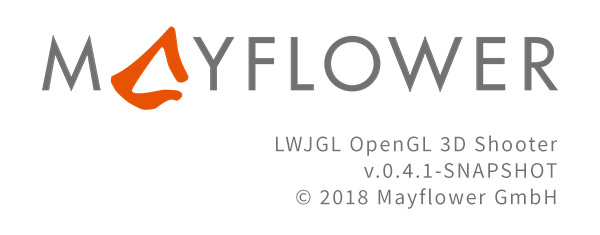
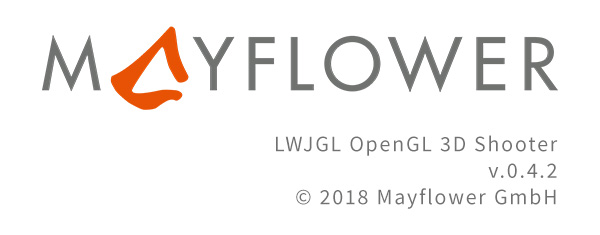
Moved FPS to class HUD. Completed version 0.4.2.

Changed region(s): [[0.6, 0.6851, 0.93, 0.7745]]

diff --git a/src/main/java/de/christopherstock/shooter/ShooterVersion.java b/src/main/java/de/christopherstock/shooter/ShooterVersion.java
@@ -6,27 +6,28 @@
     *******************************************************************************************************************/
     enum ShooterVersion
     {
-        V_0_4_1(    "0.4.1",    "31.03.2018 22:08:16 GMT+2" ),
-        V_0_4_0(    "0.4.0",    "31.03.2018 17:00:21 GMT+2" ),
-        V_0_3_12(   "0.3.12",   "23.03.2018 17:16:12 GMT+2" ),
-        V_0_3_11(   "0.3.11",   "29.03.2012 00:51:41 GMT+2" ),
-        V_0_3_10(   "0.3.10",   "12.03.2012 20:45:02 GMT+2" ),
-        V_0_3_9(    "0.3.9",    "03.03.2012 01:04:27 GMT+2" ),
-        V_0_3_8(    "0.3.8",    "19.02.2012 02:32:41 GMT+2" ),
-        V_0_3_7(    "0.3.7",    "30.01.2012 23:27:35 GMT+2" ),
-        V_0_3_6(    "0.3.6",    "11.11.2011 18:23:13 GMT+2" ),
-        V_0_3_5(    "0.3.5",    "28.05.2011 00:45:12 GMT+2" ),
-        V_0_3_4(    "0.3.4",    "04.05.2011 23:35:54 GMT+2" ),
-        V_0_3_3(    "0.3.3",    "22.04.2011 23:40:17 GMT+2" ),
-        V_0_3_2(    "0.3.2",    "13.04.2011 16:40:14 GMT+2" ),
-        V_0_3_1(    "0.3.1",    "17.03.2011 22:42:08 GMT+2" ),
-        V_0_3(      "0.3",      "11.02.2011 20:41:02 GMT+2" ),
-        V_0_2_3(    "0.2.3",    "25.01.2011 18:06:33 GMT+2" ),
-        V_0_2_2(    "0.2.2",    "09.11.2010 19:48:12 GMT+2" ),
-        V_0_2_1(    "0.2.1",    "07.11.2010 17:13:32 GMT+2" ),
-        V_0_2(      "0.2",      "17.10.2010 00:02:52 GMT+2" ),
-        V_0_1_1(    "0.1.1",    "27.06.2010 00:30:06 GMT+2" ),
-        V_0_1(      "0.1",      "27.06.2010 23:44:21 GMT+2" ),
+        V_0_4_2(    "0.4.2",    "09.04.2018 09:30:21 GMT+2" ),
+        V_0_4_1(    "0.4.1",    "31.03.2018 22:08:16 GMT+1" ),
+        V_0_4_0(    "0.4.0",    "31.03.2018 17:00:21 GMT+1" ),
+        V_0_3_12(   "0.3.12",   "23.03.2018 17:16:12 GMT+1" ),
+        V_0_3_11(   "0.3.11",   "29.03.2012 00:51:41 GMT+1" ),
+        V_0_3_10(   "0.3.10",   "12.03.2012 20:45:02 GMT+1" ),
+        V_0_3_9(    "0.3.9",    "03.03.2012 01:04:27 GMT+1" ),
+        V_0_3_8(    "0.3.8",    "19.02.2012 02:32:41 GMT+1" ),
+        V_0_3_7(    "0.3.7",    "30.01.2012 23:27:35 GMT+1" ),
+        V_0_3_6(    "0.3.6",    "11.11.2011 18:23:13 GMT+1" ),
+        V_0_3_5(    "0.3.5",    "28.05.2011 00:45:12 GMT+1" ),
+        V_0_3_4(    "0.3.4",    "04.05.2011 23:35:54 GMT+1" ),
+        V_0_3_3(    "0.3.3",    "22.04.2011 23:40:17 GMT+1" ),
+        V_0_3_2(    "0.3.2",    "13.04.2011 16:40:14 GMT+1" ),
+        V_0_3_1(    "0.3.1",    "17.03.2011 22:42:08 GMT+1" ),
+        V_0_3(      "0.3",      "11.02.2011 20:41:02 GMT+1" ),
+        V_0_2_3(    "0.2.3",    "25.01.2011 18:06:33 GMT+1" ),
+        V_0_2_2(    "0.2.2",    "09.11.2010 19:48:12 GMT+1" ),
+        V_0_2_1(    "0.2.1",    "07.11.2010 17:13:32 GMT+1" ),
+        V_0_2(      "0.2",      "17.10.2010 00:02:52 GMT+1" ),
+        V_0_1_1(    "0.1.1",    "27.06.2010 00:30:06 GMT+1" ),
+        V_0_1(      "0.1",      "27.06.2010 23:44:21 GMT+1" ),
         ;
 
         private     String  version = null;

diff --git a/src/main/java/de/christopherstock/shooter/ui/hud/HUD.java b/src/main/java/de/christopherstock/shooter/ui/hud/HUD.java
@@ -3,6 +3,7 @@
 
     import  de.christopherstock.lib.LibAnimation;
     import  de.christopherstock.lib.gl.*;
+    import  de.christopherstock.lib.ui.LibFPS;
     import  de.christopherstock.shooter.*;
     import  de.christopherstock.shooter.ShooterSetting.Colors;
     import  de.christopherstock.shooter.ShooterSetting.HUDSettings;
@@ -46,6 +47,9 @@
 
         public              boolean             hideWearpon                         = false;
 
+        /** Frames per second counter. */
+        public              LibFPS              fps                                 = null;
+
         public HUD()
         {
             //parse ortho offsets
@@ -58,7 +62,7 @@
             CrossHair.loadImages();
 
             //init fps
-
+            this.initFPS();
         }
 
         public final void draw()
@@ -100,7 +104,7 @@
             Shooter.game.engine.hudFx.drawHUDEffects();
 
             //draw frames per second last
-            Shooter.game.engine.fps.draw( OffsetsOrtho.EBorderHudX, OffsetsOrtho.EBorderHudY );
+            Shooter.game.engine.hud.fps.draw( OffsetsOrtho.EBorderHudX, OffsetsOrtho.EBorderHudY );
 
             //draw debug logs
             //Shooter.game.engine.player.drawDebugLog(      g );
@@ -316,5 +320,15 @@
         public void resetAnimation()
         {
             this.animationPlayerRightHand = 0;
+        }
+
+        /***************************************************************************************************************
+        *   Inits the Frames Per Second counter.
+        ***************************************************************************************************************/
+        private void initFPS()
+        {
+            ShooterDebug.init.out( "init FPS counter" );
+
+            this.fps = new LibFPS( Shooter.game.engine.fonts.fps, ShooterSetting.Colors.EFpsFg.colABGR, ShooterSetting.Colors.EFpsOutline.colABGR, ShooterDebug.glImage );
         }
     }

diff --git a/src/main/java/de/christopherstock/shooter/base/ShooterEngine.java b/src/main/java/de/christopherstock/shooter/base/ShooterEngine.java
@@ -53,8 +53,6 @@
         public                      HUDFx                   hudFx                       = null;
         /** Heads up display message manager. */
         public                      HUDMessageManager       hudMessagesManager          = null;
-        /** Frames per second counter. */
-        public                      LibFPS                  fps                         = null;
         /** The sound system. */
         public                      Sound                   sound                       = null;
         /** The main menu. */
@@ -89,9 +87,6 @@
 
             this.preloader.increase( 50 );
             this.initHUD();
-
-            this.preloader.increase( 60 );
-            this.initFPS();
 
             this.preloader.increase( 70 );
             this.initSound();
@@ -243,16 +238,6 @@
 
             ShooterDebug.init.out( "init HUD message manager" );
             this.hudMessagesManager = new HUDMessageManager();
-        }
-
-        /***************************************************************************************************************
-        *   Inits the Frames Per Second counter.
-        ***************************************************************************************************************/
-        private void initFPS()
-        {
-            ShooterDebug.init.out( "init FPS counter" );
-
-            this.fps = new LibFPS( this.fonts.fps, ShooterSetting.Colors.EFpsFg.colABGR, ShooterSetting.Colors.EFpsOutline.colABGR, ShooterDebug.glImage );
         }
 
         /***************************************************************************************************************

diff --git a/src/main/java/de/christopherstock/shooter/Shooter.java b/src/main/java/de/christopherstock/shooter/Shooter.java
@@ -6,11 +6,9 @@
     /*******************************************************************************************************************
     *   The main class.
     *
-    *   TODO    Move FPS to class HUD.
-    *   TODO    Complete v.0.4.2
-    *   TODO    Why are floating differences in 3dsmax ASE export files?
     *   TODO    Adjust OpenGraph tags.
     *
+    *   TODO    Check, why floating point differences in 3dsmax ASE export files exist?
     *   TODO    Optimize fields in ArtefactType!
     *   TODO    Make new subclass:  Wearpon that derives from ArtefactKind!!
     *   TODO    Only for FireArms! Move ArtefactType.fXImages to Firearms (Wearpons)!

diff --git a/src/main/java/de/christopherstock/lib/ui/LibFPS.java b/src/main/java/de/christopherstock/lib/ui/LibFPS.java
@@ -3,11 +3,10 @@
 
     import  java.awt.Color;
     import  java.awt.Font;
-    import java.util.concurrent.TimeUnit;
-
+    import  java.util.concurrent.TimeUnit;
     import  de.christopherstock.lib.*;
     import  de.christopherstock.lib.gl.*;
-    import de.christopherstock.shooter.Shooter;
+    import  de.christopherstock.shooter.Shooter;
 
     /*******************************************************************************************************************
     *   The Frames Per Second display.

diff --git a/src/main/java/de/christopherstock/shooter/base/ShooterGame.java b/src/main/java/de/christopherstock/shooter/base/ShooterGame.java
@@ -44,7 +44,7 @@
                 this.render();
 
                 // update fps
-                this.engine.fps.update();
+                this.engine.hud.fps.update();
 
                 // invoke callback 3d drawing
                 this.draw();
